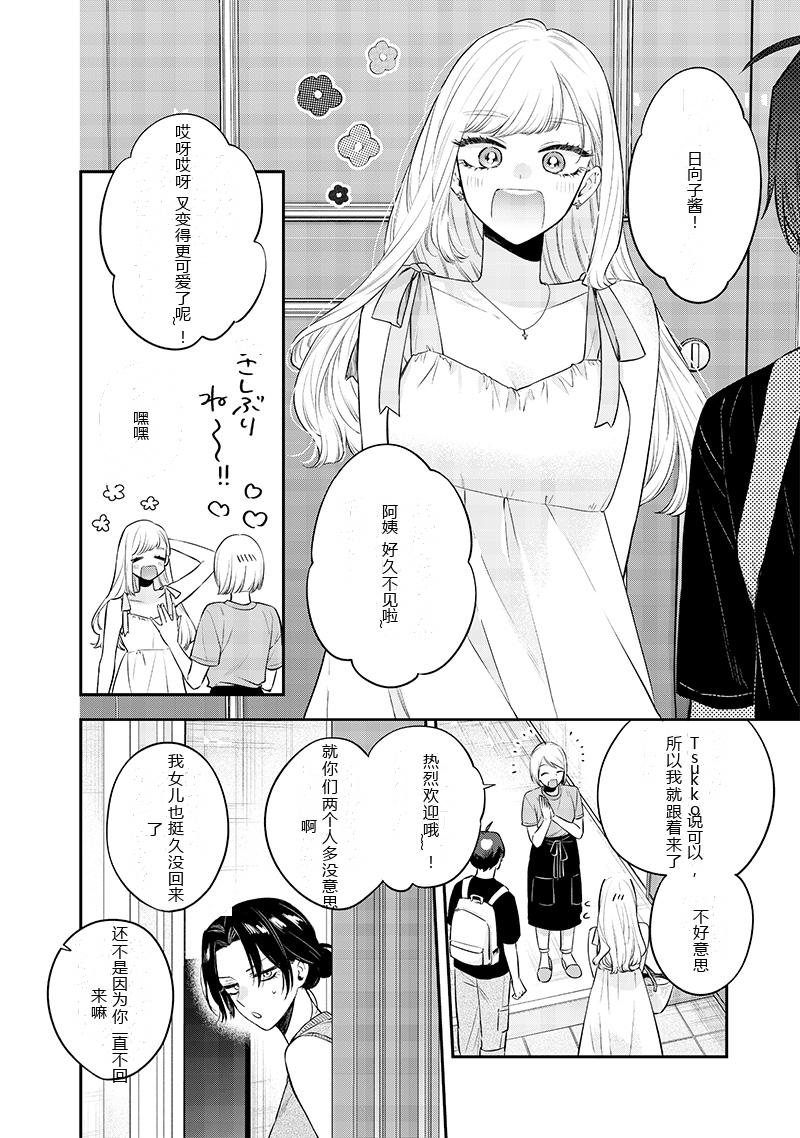
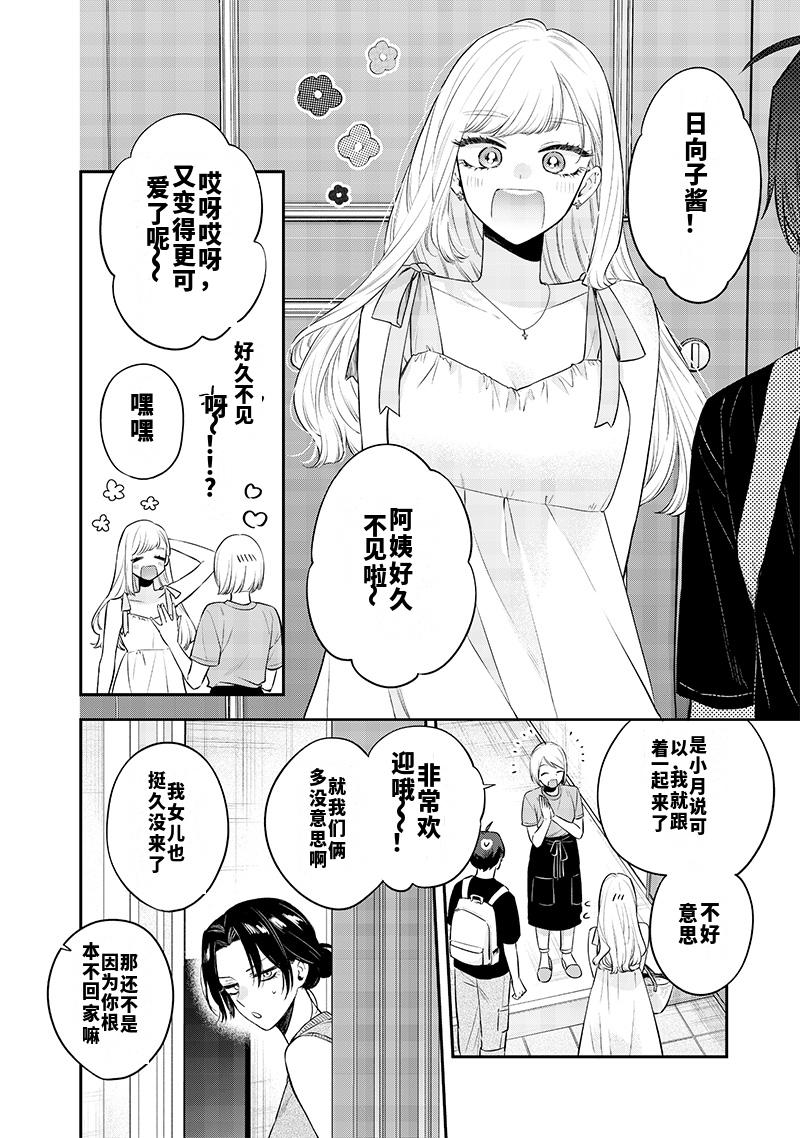
最后调试

diff --git a/app/main/vertical_typesetter.py b/app/main/vertical_typesetter.py
@@ -168,10 +168,10 @@ class VerticalTypesetter:
         try:
             x1, y1, x2, y2 = map(int, box[:4])
 
-            scale_ratio = 0.8
+            scale_ratio = 0.9
 
-            GLOBAL_OFFSET_X = 0   # 正数向右，负数向左
-            GLOBAL_OFFSET_Y = 5   # 正数向下，负数向上
+            GLOBAL_OFFSET_X = 5   # 正数向右，负数向左
+            GLOBAL_OFFSET_Y = 15   # 正数向下，负数向上
 
             raw_width = x2 - x1
             raw_height = y2 - y1
@@ -370,8 +370,27 @@ class VerticalTypesetter:
                     current_col_center_x -= (sample_w + best_col_spacing)
 
             # 调试框 (取消注释可查看排版范围)
-            # draw.rectangle(box, outline="red", width=3)
-            # draw.line([(center_x, y1), (center_x, y2)], fill="blue", width=2)
+            #         debug_box = box[:4]
+            #
+            #         dbg_outline = "yellow"
+            #         if style == 'radiating':
+            #             dbg_outline = "red"
+            #         elif style != 'dialogue':
+            #             dbg_outline = "cyan"
+            #         draw.rectangle([x1, y1, x2, y2], outline="red", width=2)
+            #
+            #         margin_x = (raw_width - box_width) // 2
+            #         margin_y = (raw_height - box_height) // 2
+            #         draw.rectangle([x1 + margin_x, y1 + margin_y, x2 - margin_x, y2 - margin_y], outline="yellow",width=2)
+            #         draw.line([(center_x, y1), (center_x, y2)], fill="blue", width=1)
+            #         # 诊断代码：画一个覆盖全图的大 X，检查 draw 对象的坐标系是否正常
+            #         w, h = image.size
+            #         draw.line([(0, 0), (w, h)], fill="green", width=5)
+            #         draw.line([(w, 0), (0, h)], fill="green", width=5)
+            #
+            #         # 检查当前 box 是否超出了图片边界
+            #         if x2 > w or y2 > h:
+            #             print(f"检测框坐标 {x2, y2} 超出了图片尺寸 {w, h}！")
 
             return image
 

diff --git a/app/main/comic_translator_pipeline.py b/app/main/comic_translator_pipeline.py
@@ -60,7 +60,8 @@ class ComicTranslatorPipeline:
 
     def detect_bubbles(self, image_path):
         print(f"检测气泡中")
-        _, _, text_lines = self.detector(image_path)
+        mask, mask_refined, text_lines = self.detector(image_path)
+        self.last_detector_mask = mask_refined
 
         bubbles = []
         for line in text_lines:
@@ -76,7 +77,8 @@ class ComicTranslatorPipeline:
             font_style_map = {
                 0: 'dialogue',
                 1: 'radiating',
-                2: 'handwritting'
+                2: 'handwriting',
+                3: 'serious'
             }
             font_type = font_style_map.get(class_id, 'dialogue')
 
@@ -349,7 +351,8 @@ class ComicTranslatorPipeline:
 
         # 4. 图像修补 (获得干净的 PIL 画布)
         # 这一步会去除原有文字，生成适合嵌字的底图
-        final_canvas = self.inpaint_bubbles(input_path, bubbles_data)
+        clean_boxes = [b[:4] for b in bubbles_data]
+        final_canvas = self.inpaint_bubbles(input_path, clean_boxes)
 
         # 5. 嵌字 (Typesetting)
         for item in processed_data:

diff --git a/app/main/main.py b/app/main/main.py
@@ -105,7 +105,7 @@ if __name__ == "__main__":
             if user_cmd.lower() == 'n': break
             print("等待任务...")
             futures = []
-            target_indices = [7]
+            target_indices = [9]
             for i in target_indices:
                 user_input = f"../page/test_page/test{i}.jpg"
 

diff --git a/app/main/comic_text_detector/utils/textblock.py b/app/main/comic_text_detector/utils/textblock.py
@@ -86,6 +86,8 @@ class TextBlock(object):
         self.accumulate_color = accumulate_color
 
         self.label = int(label)
+        if 'label' in kwargs:
+            self.label = kwargs['label']
         self.lines = [] if lines is None else lines
 
     def adjust_bbox(self, with_bbox=False):
